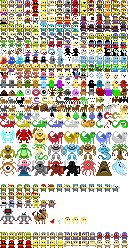
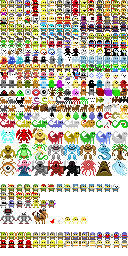
fixed rogue assets

diff --git a/CustomContentPipeline/MainAtlasPipeline.cs b/CustomContentPipeline/MainAtlasPipeline.cs
@@ -146,6 +146,7 @@ unsafe class MainAtlasProcessor : ContentProcessor<string, MainAtlasResult> {
         AddAnimatedImage("chars8x8rLow2", "chars8x8rlow2.png", 8, 8);
         AddAnimatedImage("chars8x8rMid", "chars8x8rmid.png", 8, 8);
         AddAnimatedImage("chars8x8rMid2", "chars8x8rmid2.png", 8, 8);
+        AddAnimatedImage("chars8x8rPets1", "chars8x8rpets1.png", 8, 8);
         AddAnimatedImage("chars8x8rHigh", "chars8x8rhigh.png", 8, 8);
         AddAnimatedImage("chars8x8rHero1", "chars8x8rhero1.png", 8, 8);
         AddAnimatedImage("chars8x8rHero2", "chars8x8rhero2.png", 8, 8);
@@ -155,12 +156,13 @@ unsafe class MainAtlasProcessor : ContentProcessor<string, MainAtlasResult> {
         AddAnimatedImage("chars8x8dEncounters", "chars8x8dencounters.png", 8, 8);
         AddAnimatedImage("chars8x8rEncounters", "chars8x8rencounters.png", 8, 8);
         AddAnimatedImage("chars16x8dEncounters", "chars16x8dencounters.png", 16, 8);
+        AddAnimatedImage("chars16x8rEncounters", "chars16x8rencounters.png", 16, 8);
         AddAnimatedImage("chars16x16dEncounters", "chars16x16dencounters.png", 16, 16);
         AddAnimatedImage("chars16x16dEncounters2", "chars16x16dencounters2.png", 16, 16);
         AddAnimatedImage("chars16x16rEncounters", "chars16x16rencounters.png", 16, 16);
 
         AddAnimatedImage("players", "players.png", 8, 8, Grouping.Full);
-        AddAnimatedImage("playerskins", "PlayerSkins.png", 8, 8, Grouping.Full);
+        AddAnimatedImage("playerskins", "PlayersSkins.png", 8, 8, Grouping.Full);
 
         // var desktopPath = Environment.GetFolderPath(Environment.SpecialFolder.Desktop);
         // WriteAtlasToFile(Atlas, desktopPath + "/NewAtlas.png");
